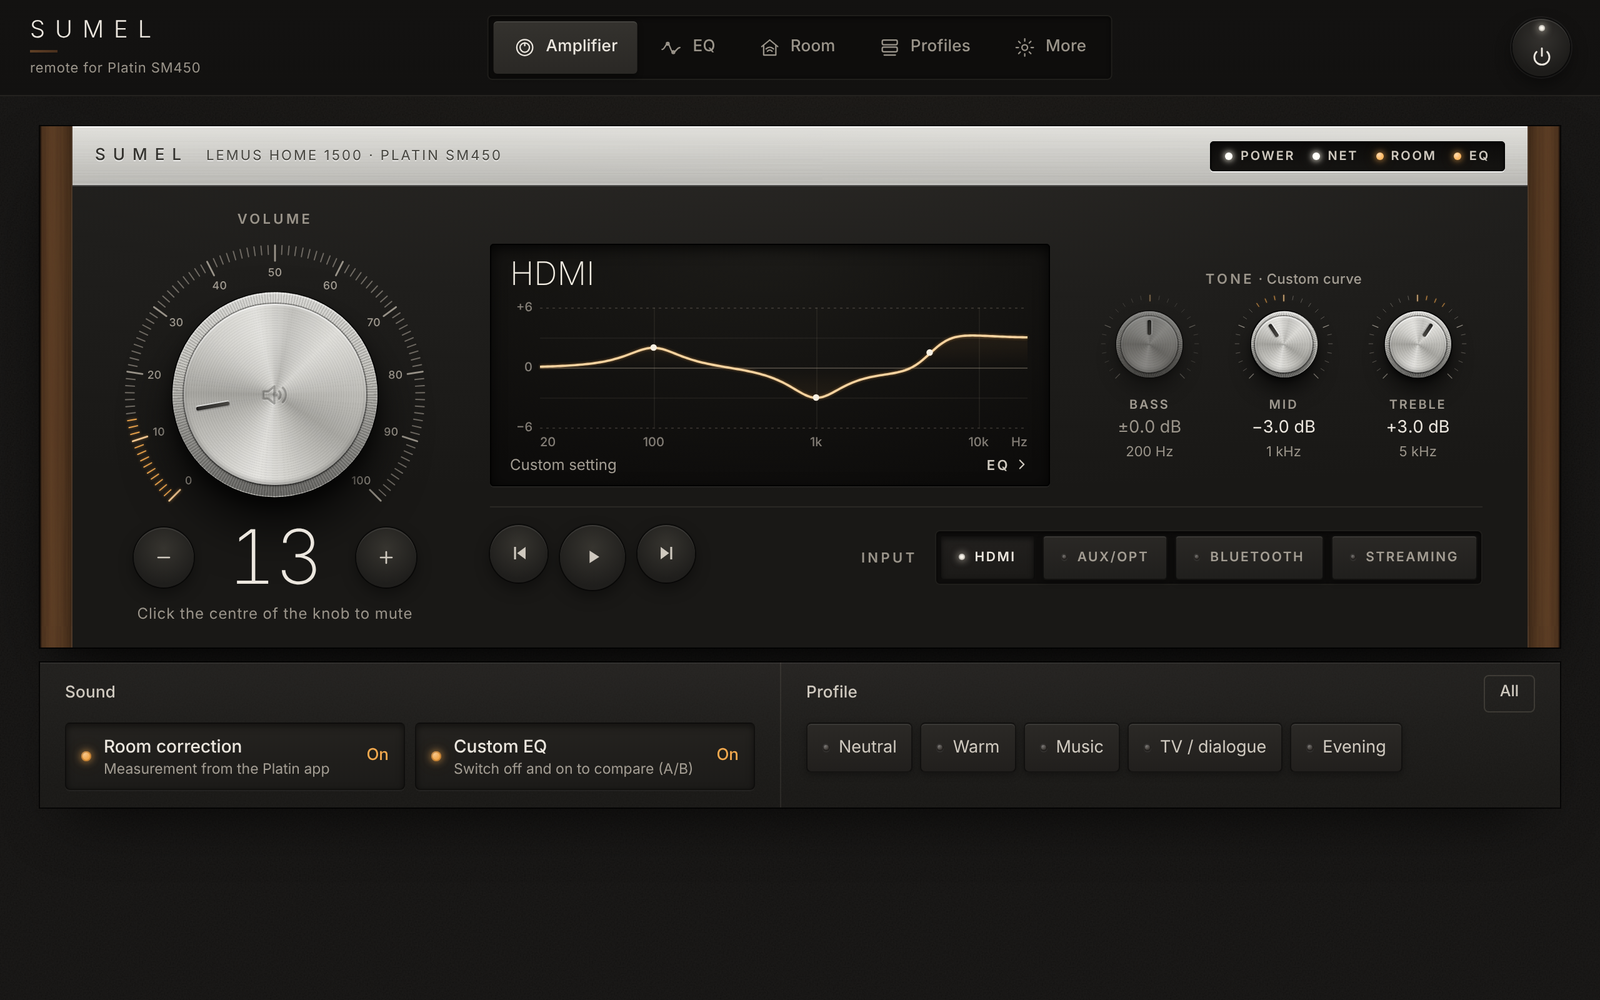
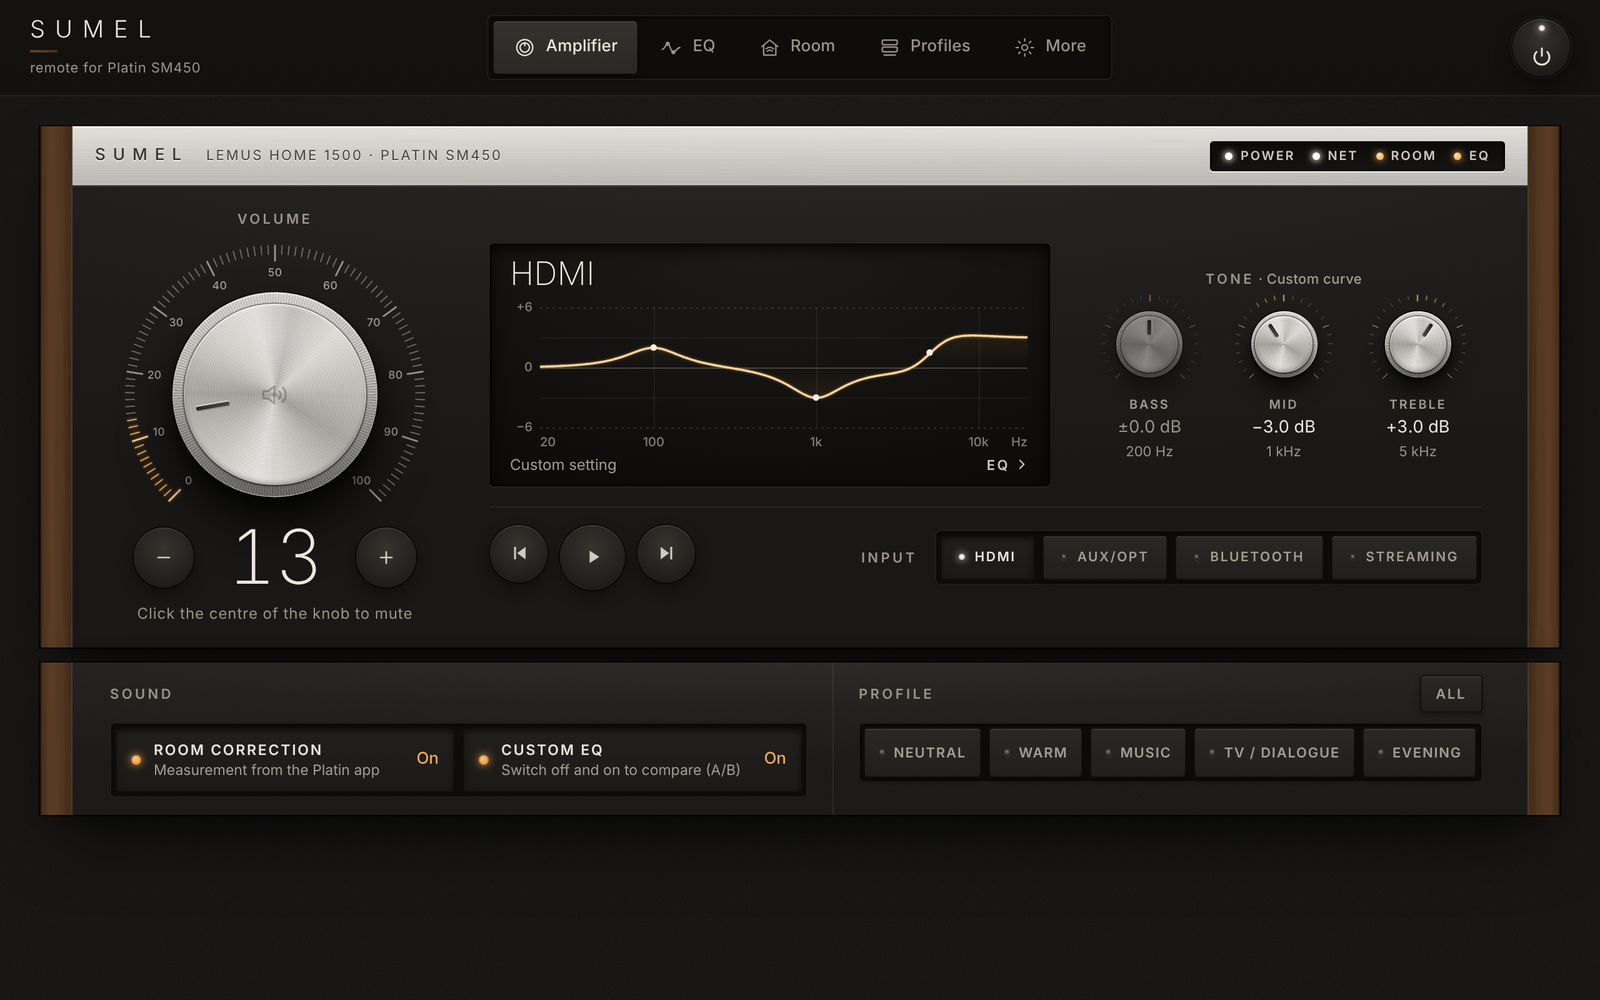
SUMEL 1.0.1
- Input selection waits for the speaker's own source list and always shows the input the
  speaker reports; the same input can be selected again; reconnects at once if the speaker
  does not answer
- Lower row (Sound/Profile) styled as part of the amplifier, aligned with the front panel
- Known SM450 issue (also in the Platin app): HDMI without sound after a network switch -
  fix with the remote (AUX/OPT and back to HDMI)

Claude-Session: https://claude.ai/code/session_015qg7weUaN48gBux5nf1eYy

Changed region(s): [[0.5, 0.682, 0.9062, 0.775], [0.0, 0.651, 0.4688, 0.837], [0.9375, 0.651, 1.0, 0.837]]

diff --git a/lemus_remote/static/index.html b/lemus_remote/static/index.html
@@ -822,6 +822,28 @@ html[data-front="alu"] .fp-body { padding-top:22px; }
   html[data-front="alu"] .fp-lamps { padding:5px 8px; gap:8px; }
   html[data-front="alu"] .fp-lamps span { gap:4px; letter-spacing:.04em; }
 }
+/* ---------------- Nedre rad (Lyd og Profil) som en del av forsterkeren: samme kabinett med valnøttsider, graverte
+   etiketter og knapper i en innfelt brønn som inngangsvelgeren. Sidene og innholdet flukter med frontplaten over. */
+.deck { padding:0 12px; background:radial-gradient(130% 70% at 50% 0%, #2a2825 0%, #1f1e1c 48%, #191816 100%);
+  box-shadow:0 0 0 1px rgba(0,0,0,.75), 0 30px 60px -20px rgba(0,0,0,.8), 0 10px 20px -10px rgba(0,0,0,.5); }
+.deck .deck-h { font-size:11px; font-weight:600; letter-spacing:.2em; text-transform:uppercase; color:var(--faint); }
+.deck .togs, .deck .chips { padding:3px; gap:6px; border-radius:var(--radius-s); background:var(--well);
+  border:1px solid var(--line); box-shadow:inset 0 1px 3px rgba(0,0,0,.6); }
+.deck .tog, .deck .chip { border-radius:var(--radius-xs); border:1px solid rgba(0,0,0,.55);
+  background:linear-gradient(180deg, #2a2825, #201f1d); box-shadow:inset 0 1px 0 rgba(255,255,255,.07), 0 2px 5px rgba(0,0,0,.35); }
+.deck .tog[aria-checked="true"], .deck .chip[aria-pressed="true"] { background:linear-gradient(180deg, #22201e, #1b1a18); box-shadow:inset 0 2px 5px rgba(0,0,0,.55); }
+.deck .tog .t b { font-size:11.5px; font-weight:600; letter-spacing:.12em; text-transform:uppercase; }
+.deck .chip { font-size:11.5px; font-weight:600; letter-spacing:.1em; text-transform:uppercase; color:var(--muted); }
+.deck .chip[aria-pressed="true"] { color:var(--fg); }
+.deck .deck-all { border-radius:var(--radius-xs); border:1px solid rgba(0,0,0,.55); background:linear-gradient(180deg, #2a2825, #201f1d);
+  box-shadow:inset 0 1px 0 rgba(255,255,255,.07), 0 2px 5px rgba(0,0,0,.35); font-size:11px; font-weight:600; letter-spacing:.12em; text-transform:uppercase; color:var(--muted); }
+html[data-front="alu"] .deck { padding:0; }
+@media (min-width: 1000px) {
+  .deck, html[data-front="alu"] .deck { padding:0 26px; }
+  .deck .deck-sec:first-of-type { padding-left:30px; }
+  .deck .deck-sec:last-of-type { padding-right:36px; }
+  .deck .chip { font-size:11px; min-height:40px; padding:0 11px; letter-spacing:.08em; gap:6px; }
+}
 </style>
 </head>
 <body>
@@ -907,6 +929,7 @@ html[data-front="alu"] .fp-body { padding-top:22px; }
   </div>
 
   <div class="deck" id="deck">
+    <span class="fp-cheek l"></span><span class="fp-cheek r"></span>
     <section class="deck-sec" aria-label="Lyd" data-i18n-aria="amp.sound">
       <h2 class="deck-h" data-i18n="amp.sound">Lyd</h2>
       <div class="togs">
@@ -1210,7 +1233,7 @@ html[data-front="alu"] .fp-body { padding-top:22px; }
       </div>
     </div>
   </details>
-  <p class="small muted" id="aboutLine" style="margin:22px 4px 8px;opacity:.75"><b>SUMEL</b> 1.0.0 · <span data-i18n="about.tag">fjernkontroll for Platin SM450</span><br><i data-i18n="about.why">Utviklet grunnet irritasjon på dårlige eller ikke-eksisterende apper. =)</i></p>
+  <p class="small muted" id="aboutLine" style="margin:22px 4px 8px;opacity:.75"><b>SUMEL</b> 1.0.1 · <span data-i18n="about.tag">fjernkontroll for Platin SM450</span><br><i data-i18n="about.why">Utviklet grunnet irritasjon på dårlige eller ikke-eksisterende apper. =)</i></p>
 </section>
 </main>
 <div id="toasts" aria-live="polite"></div>
@@ -1622,6 +1645,9 @@ const ERR_EN = [
   [/^høyttaleren bekreftet ikke slettingen$/, () => "the speaker didn’t confirm the deletion"],
   [/^høyttaleren bekreftet ikke at den slo seg av$/, () => "the speaker didn’t confirm that it switched off"],
   [/^høyttaleren bekreftet ikke (manuell EQ|romkorreksjon|preset|kildebytte|volum)$/, m => `the speaker didn’t confirm ${CONFIRM_EN[m[1]]}`],
+  [/^fikk ikke svar fra høyttaleren\. Kobler til på nytt – prøv igjen om noen sekunder\.$/, () => "no answer from the speaker. Reconnecting – try again in a few seconds."],
+  [/^høyttaleren bekreftet ikke kildebytte\. Høyttaleren melder ingen entydig aktiv kilde\.$/, () => "the speaker didn’t confirm the input change. It reports no clear active input."],
+  [/^høyttaleren bekreftet ikke kildebytte\. Høyttaleren melder (.+)\.$/, m => `the speaker didn’t confirm the input change. It reports ${m[1]}.`],
   [/^profilen bruker «(.+)», som ikke kan skrives ennå$/, m => `the profile uses “${typeNameFromNo(m[1])}”, which can’t be written yet`],
   [/^profilen har (\d+) bånd, men SM450 tar høyst (\d+)$/, m => `the profile has ${m[1]} bands, but the SM450 takes at most ${m[2]}`],
   [/^profilen og båndene som ikke kan skrives blir til sammen mer enn (\d+) bånd$/, m => `the profile plus the bands that can’t be written add up to more than ${m[1]} bands`],
@@ -2225,7 +2251,9 @@ $("#pwr").onclick = async () => {
 
 let srcBusy = null;
 async function pickSource(ix) {
-  if (!awake() || srcBusy != null || (S && S.source === ix)) return;
+  // Sendes også når kilden allerede vises som aktiv: visningen kan være utdatert, og et nytt valg av
+  // samme kilde skal da likevel nå høyttaleren (særlig HDMI).
+  if (!awake() || srcBusy != null) return;
   srcBusy = ix; renderSources(true);
   await api("/api/source", { ix });
   srcBusy = null; renderSources(true);

diff --git a/tests/test_source.py b/tests/test_source.py
@@ -1,0 +1,171 @@
+"""Kildebytte (HDMI m.fl.): riktig kommando, bekreftelse fra kildelisten (02 02) og at tilstanden
+viser kilden høyttaleren faktisk melder – ikke en utdatert eller antatt kilde.
+
+Bakgrunn (fysisk test, 1.0.0): bytte tilbake til HDMI fra SUMEL mislyktes, SUMEL viste
+«Høyttaleren bekreftet ikke kildebytte», og HDMI kunne stå som aktiv selv om høyttaleren
+brukte en annen kilde. Fjernkontrollen kunne bytte til HDMI.
+"""
+import asyncio
+import json
+import unittest
+
+from lemus_remote import protocol as p
+from lemus_remote.device import CommandError, Speaker
+
+from fake_sm450 import FakeSM450, ev
+
+HDMI, AUX, BT, STREAM = 1, 2, 3, 4
+
+
+class SourceFake(FakeSM450):
+    """FakeSM450 med valg for hvordan kildebytter meldes.
+
+    json_delay:   sekunder før kildelisten viser en ny kilde (HDMI-håndtrykk o.l.)
+    ignore_select: kilder som 02 03 ikke bytter til
+    sts_extra:    kilder som alltid har sts 1 i kildelisten (i tillegg til den aktive)
+    """
+
+    def __init__(self) -> None:
+        super().__init__()
+        self.json_delay = 0.0
+        self.ignore_select: set[int] = set()
+        self.sts_extra: set[int] = set()
+        self._shown = self.source       # kilden kildelisten viser nå
+
+    def _source_events(self) -> None:
+        doc = {"src": [{"ix": ix, "name": n, "sts": int(ix == self._shown or ix in self.sts_extra)}
+                       for ix, n in self.SOURCES]}
+        self._broadcast(ev(0x02, 0x02, json.dumps(doc, separators=(",", ":")).encode()))
+        self._broadcast(ev(0x02, 0x21, bytes([self.source, self.volume])))
+
+    async def _handle(self, f: bytes) -> None:
+        if self.silent:
+            return
+        key, data = (f[3], f[4]), f[5:]
+        if key == (0x02, 0x03):
+            if data[0] in self.ignore_select:
+                return
+            self.source = data[0]
+            if self.json_delay:
+                self._broadcast(ev(0x02, 0x21, bytes([self.source, self.volume])))  # bare 02 21 først
+                asyncio.get_running_loop().call_later(self.json_delay, self._show_now)
+                return
+            self._shown = self.source
+            self._source_events()
+            return
+        await super()._handle(f)
+
+    def _show_now(self) -> None:
+        self._shown = self.source
+        self._source_events()
+
+    def remote_select(self, ix: int) -> None:
+        """Fjernkontrollen bytter kilde: høyttaleren melder 02 02 + 02 21 til alle (busmon 9.11.2026)."""
+        self.source = self._shown = ix
+        self._source_events()
+
+
+class SourceFrames(unittest.TestCase):
+    def test_hdmi_select_frame_is_documented_form(self):
+        # 00 04 <05+ix> 02 03 <ix> (PROTOCOL.md / aiolibresync); HDMI har ix 1 i SM450-listen
+        self.assertEqual(p.select_source(HDMI).hex(" "), "00 04 06 02 03 01")
+        self.assertEqual(p.select_source(STREAM).hex(" "), "00 04 09 02 03 04")
+
+    def _decode(self, sts):
+        doc = {"src": [{"ix": ix, "name": n, "sts": sts.get(ix, 0)} for ix, n in SourceFake.SOURCES]}
+        return p.decode_control(ev(0x02, 0x02, json.dumps(doc).encode()))
+
+    def test_single_active_source(self):
+        self.assertEqual(self._decode({HDMI: 1})["source"], HDMI)
+        self.assertEqual(self._decode({BT: 1})["source"], BT)
+
+    def test_ambiguous_or_missing_active_source_is_unknown(self):
+        # før ble den første med sts 1 (HDMI) valgt – da kunne HDMI vises som aktiv feilaktig
+        self.assertIsNone(self._decode({HDMI: 1, BT: 1})["source"])
+        self.assertIsNone(self._decode({})["source"])
+
+    def test_source_code_from_02_21_does_not_set_source(self):
+        patch = p.decode_control(ev(0x02, 0x21, bytes([BT, 13])))
+        self.assertEqual(patch["source_code"], BT)
+        self.assertNotIn("source", patch)
+
+
+class SourceSwitching(unittest.IsolatedAsyncioTestCase):
+    async def asyncSetUp(self):
+        self.fake = SourceFake()
+        ctl, luci = await self.fake.start()
+        self.sp = Speaker("127.0.0.1", control_port=ctl, luci_port=luci)
+        self.sp.source_confirm = 3.0
+        self.sp.start()
+        ok = await self.sp._wait_for(lambda s: s["connected"] and s["source"] == HDMI and s["sources"]
+                                     and s.get("source_code") is not None, 5)
+        self.assertTrue(ok, self.sp.state)
+
+    async def asyncTearDown(self):
+        await self.sp.stop()
+        await self.fake.stop()
+        for f in self.fake.received:
+            self.assertNotIn((f[3], f[4]), {(0x08, 0x01), (0x08, 0x06), (0x08, 0x02), (0x02, 0x20)}, f.hex(" "))
+
+    def _selects(self):
+        return [f[5] for f in self.fake.received if (f[3], f[4]) == (0x02, 0x03)]
+
+    async def test_switch_away_and_back_to_hdmi(self):
+        await self.sp.select_source(BT)
+        self.assertEqual((self.fake.source, self.sp.state["source"]), (BT, BT))
+        await self.sp.select_source(HDMI)
+        self.assertEqual((self.fake.source, self.sp.state["source"]), (HDMI, HDMI))
+        self.assertEqual(self._selects(), [BT, HDMI])
+
+    async def test_hdmi_is_sent_even_when_state_wrongly_shows_hdmi(self):
+        # tilstanden er utdatert: viser HDMI, men høyttaleren står på Bluetooth
+        self.fake.source = self.fake._shown = BT
+        self.sp.state["source"] = HDMI
+        await self.sp.select_source(HDMI)
+        self.assertEqual(self._selects(), [HDMI])
+        self.assertEqual((self.fake.source, self.sp.state["source"]), (HDMI, HDMI))
+
+    async def test_slow_hdmi_confirmation_within_window(self):
+        await self.sp.select_source(BT)
+        self.fake.json_delay = 2.0   # kildelisten viser HDMI først etter 2 s (gammel grense var 3 s inkl. alt)
+        await self.sp.select_source(HDMI)
+        self.assertEqual(self.sp.state["source"], HDMI)
+
+    async def test_unconfirmed_switch_shows_actual_source_not_requested(self):
+        await self.sp.select_source(BT)
+        self.fake.ignore_select = {HDMI}   # høyttaleren bytter ikke
+        with self.assertRaises(CommandError) as cm:
+            await self.sp.select_source(HDMI)
+        self.assertIn("melder Bluetooth", str(cm.exception))
+        self.assertEqual(self.sp.state["source"], BT)   # ikke HDMI, som vi ba om
+
+    async def test_remote_change_is_followed(self):
+        # som i busmon-opptaket 9.11.2026: fjernkontrollen bytter, høyttaleren melder 02 02 + 02 21 straks
+        self.fake.remote_select(BT)
+        ok = await self.sp._wait_for(lambda s: s["source"] == BT, 2)
+        self.assertTrue(ok, self.sp.state)
+
+    async def test_no_answer_reconnects_and_does_not_claim_new_source(self):
+        await self.sp.select_source(BT)
+        self.fake.silent = True   # forbindelsen svarer ikke lenger
+        with self.assertRaises(CommandError) as cm:
+            await self.sp.select_source(HDMI)
+        self.assertIn("fikk ikke svar", str(cm.exception))
+        self.assertNotEqual(self.sp.state["source"], HDMI)
+        self.fake.silent = False
+        ok = await self.sp._wait_for(lambda s: not s["connected"], 3)
+        self.assertTrue(ok, "skulle koble fra for å koble til på nytt")
+        ok = await self.sp._wait_for(lambda s: s["connected"] and s["source"] == BT, 10)
+        self.assertTrue(ok, self.sp.state)
+        await self.sp.select_source(HDMI)
+        self.assertEqual((self.fake.source, self.sp.state["source"]), (HDMI, HDMI))
+
+    async def test_ambiguous_list_does_not_show_hdmi_as_active(self):
+        self.fake.sts_extra = {HDMI}   # HDMI har sts 1 i tillegg til den aktive
+        self.fake.remote_select(BT)
+        ok = await self.sp._wait_for(lambda s: s["source"] is None, 3)
+        self.assertTrue(ok, self.sp.state)
+
+
+if __name__ == "__main__":
+    unittest.main()

diff --git a/lemus_remote/device.py b/lemus_remote/device.py
@@ -42,6 +42,7 @@ MUTE_CONFIRM = 2.0  # sekunder vi venter på at boks 0x3F bekrefter demping fra 
 MUTE_RAMP_STEP = 5  # volum-reserve: skru opp igjen i steg på høyst så mye ...
 MUTE_RAMP_DELAY = 0.12  # ... med så mange sekunder mellom hvert steg
 FOLLOW_DELAY = 0.6  # vent litt etter en kommando fra en annen klient før vi leser på nytt
+SOURCE_CONFIRM = 6.0  # sekunder vi venter på at kildelisten (02 02) viser den valgte kilden (HDMI kan bruke flere sekunder)
 WAKE_REFRESH_DELAYS = (2.0, 4.0, 6.0)  # etter vekking: les EQ og romkurve etter 2, 6 og 12 s (lydprosessoren trenger litt tid)
 WAKE_SOURCE_WAIT = 3.0  # etter vekking: vent så lenge på en fersk kildemelding før vi går tilbake til forrige inngang
 # Etter vekking svarer ikke lydprosessoren på båndlesing (08 04) de første sekundene (ca. 8 s ifølge databladet).
@@ -149,6 +150,7 @@ class Speaker:
         # _cmd_lock, aldri mens _cmd_lock holdes. Ikke reentrant: offentlige metoder tar låsen og
         # kaller _-variantene, som ikke tar den.
         self._eq_lock = asyncio.Lock()
+        self.source_confirm = SOURCE_CONFIRM
         self._source_seen = 0  # antall kildemeldinger (02 02), så vi kan vente på en fersk etter vekking
         self._source_before_standby: int | None = None
         self.wake_source_wait = WAKE_SOURCE_WAIT
@@ -788,12 +790,33 @@ class Speaker:
                 raise CommandError("høyttaleren bekreftet ikke preset")
 
     async def select_source(self, ix: int) -> None:
+        """Velg inngang og vent til høyttalerens egen kildeliste (02 02) viser den.
+
+        Kommandoen sendes også når tilstanden allerede viser denne kilden, fordi tilstanden kan være
+        utdatert (da må et nytt valg av HDMI likevel nå frem). Bekreftes den ikke, leses kildelisten
+        én gang til, så tilstanden viser det høyttaleren faktisk melder, og ikke kilden vi ba om."""
         if ix not in {s["ix"] for s in self.state["sources"]}:
             raise CommandError(f"ukjent kilde {ix}")
         async with self._cmd_lock:
+            seen = self._source_seen
             await self._send_control(p.select_source(ix))
-            if not await self._wait_for(lambda s: s["source"] == ix, 3, resend=p.GET_SOURCES, every=1.0):
-                raise CommandError("høyttaleren bekreftet ikke kildebytte")
+            ok = await self._wait_for(lambda s: self._source_seen != seen and s["source"] == ix,
+                                      self.source_confirm, resend=p.GET_SOURCES, every=1.5)
+            if not ok:
+                seen = self._source_seen
+                await self._send_control(p.GET_SOURCES)
+                await self._wait_for(lambda s: self._source_seen != seen, 2)
+                if self._source_seen == seen:
+                    # Høyttaleren svarer på kildelisten innen ca. 0,1 s når forbindelsen er i orden
+                    # (busmon-opptak 9.11.2026). Ingen svar betyr en død forbindelse: koble til på nytt
+                    # med en gang i stedet for å vise en gammel kilde til vakthunden slår til (45 s).
+                    log.info("50006: ingen svar på kildelisten, kobler til på nytt")
+                    if self._ctl is not None:
+                        self._ctl.close()
+                    raise CommandError("fikk ikke svar fra høyttaleren. Kobler til på nytt – prøv igjen om noen sekunder.")
+                name = {x["ix"]: x["name"] for x in self.state["sources"]}.get(self.state["source"])
+                now = f" Høyttaleren melder {name}." if name else " Høyttaleren melder ingen entydig aktiv kilde."
+                raise CommandError("høyttaleren bekreftet ikke kildebytte." + now)
 
     async def set_power(self, on: bool) -> None:
         """Slå på/av. Mens det pågår, står ``power_busy`` ("on"/"off") i tilstanden, så alle

diff --git a/lemus_remote/protocol.py b/lemus_remote/protocol.py
@@ -299,7 +299,10 @@ def decode_control(frame: bytes) -> dict | None:
             for s in doc.get("src", [])
             if "ix" in s
         ]
-        current = next((int(s["ix"]) for s in doc.get("src", []) if s.get("sts") == 1), None)
+        # sts 1 = aktiv kilde. Står mer enn én (eller ingen) med sts 1, vet vi ikke hvilken som er i bruk:
+        # da er kilden ukjent (None), i stedet for at den første i listen (HDMI) vises som aktiv.
+        active = [int(s["ix"]) for s in doc.get("src", []) if "ix" in s and s.get("sts") == 1]
+        current = active[0] if len(active) == 1 else None
         return {"sources": sources, "source": current}
     if key == (0x02, 0x89):
         try:

diff --git a/tests/test_tray.py b/tests/test_tray.py
@@ -37,7 +37,7 @@ class Version(unittest.TestCase):
         self.assertIn("SUMEL", out.getvalue())
 
     def test_version_number(self):
-        self.assertEqual(__version__, "1.0.0")
+        self.assertEqual(__version__, "1.0.1")
         # «Om SUMEL» i appen viser samme versjon
         from pathlib import Path
         html = (Path(__file__).resolve().parents[1] / "lemus_remote" / "static" / "index.html").read_text(encoding="utf-8")

diff --git a/lemus_remote/__init__.py b/lemus_remote/__init__.py
@@ -1,3 +1,3 @@
 """SUMEL – uoffisiell lokal webfjernkontroll for Platin SM450 (Lemus HOME)."""
 
-__version__ = "1.0.0"
+__version__ = "1.0.1"

diff --git a/README.md b/README.md
@@ -71,6 +71,8 @@ On the Lemus HOME 1500. "Confirmed" means it was tried on the real speaker and t
 | Live status | Confirmed. Room correction and Custom EQ are not announced by the speaker, so SUMEL polls them every 10 s |
 | Phone (browser and home screen) | Layout and controls tested in a phone-sized browser only. Not yet tested on a real iPhone or Android phone |
 
+**Known issue (SM450 firmware):** after switching to HDMI over the network, the amplifier can report HDMI as active while no sound comes out. The Platin app does the same. Fix it with the RF remote: switch to AUX/OPT and back to HDMI.
+
 **Not included:** new room measurements (make them in the Platin app; SUMEL switches the correction and shows the curve), factory reset, firmware updates, crossovers, per-channel EQ and delay. The speaker presets 1–3 are left out too: on the SM450 they revert to the app EQ after a few seconds.
 
 ## Getting started
@@ -260,5 +262,7 @@ SUMEL er ikke laget av eller tilknyttet Lemus eller Platin. Den skriver til DSP-
 **Installasjon:** Last ned `SUMEL-Setup-<versjon>.exe` fra [siste release](https://github.com/erognmo-afk/SUMEL-platin-sm450-remote/releases/latest) (64-biters Windows, testet på Windows 11, krever ingen GitHub-konto) og kjør den. Programmet er ikke kodesignert: ved «Windows beskyttet PC-en din» trykker du **Mer info → Kjør likevel**. Blokkerer Smart App Control programmet, kan du kjøre fra kildekoden i stedet: installer Python 3.10 eller nyere og kjør `py -m lemus_remote --open` i SUMEL-mappen.
 
 **Første gang:** Sett opp høyttaleren med produsentens app eller Google Home først, og ha PC-en på samme nett (ikke gjestenettet). SUMEL leter selv. Finner den ikke høyttaleren etter ca. 20 sekunder, trykker du **Skriv IP-adresse**. Står høyttaleren i standby, leses EQ-en når den våkner, og EQ-endringer er sperret til da. På mobilen åpner du adressen fra menyen ved klokken eller QR-koden under **Mer**. Tilgangskoden skrives inn én gang per enhet (QR-koden logger inn av seg selv). Mobilbruk er så langt bare testet i en nettleser i mobilstørrelse, ikke på en ekte telefon.
+
+**Kjent feil i SM450:** etter bytte til HDMI over nettverket kan forsterkeren melde HDMI uten at det kommer lyd. Platin-appen gjør det samme. Bruk fjernkontrollen: bytt til AUX/OPT og tilbake til HDMI.
 
 **EQ-plassene:** SUMEL skriver bare til de tre EQ-plassene SM450 setter av til appen. Et fjerde bånd ga et smell i testen og overskrev trolig en del av produsentens tuning. Filtre på andre plasser vises som låst og røres aldri. Har noe havnet der, slår du høyttaleren helt av (strømbryter eller stikkontakt) i 10 sekunder. Det laster trolig fabrikkoppsettet inn igjen (ikke bekreftet). Andre modeller enn Lemus HOME 1500 er ikke testet: prøv volum og inngang før du bruker EQ.

diff --git a/CHANGELOG.md b/CHANGELOG.md
@@ -4,6 +4,19 @@ All notable changes to SUMEL, newest first. The format is based on [Keep a Chang
 
 Downloads are on the [releases page](https://github.com/erognmo-afk/SUMEL-platin-sm450-remote/releases).
 
+## [1.0.1] - 2026-11-09
+
+### Changed
+
+- **Input selection** waits for the speaker's own source list to confirm the new input (up to 6 s) and always shows the input the speaker reports, never the one that was requested. Selecting an input that is already shown as active is sent again, so a stale display can no longer block switching back to HDMI.
+- If the speaker does not answer at all, SUMEL reconnects straight away and says so, instead of showing an old input until the connection watchdog notices.
+- If the speaker's source list marks more than one input as active, the input is shown as unknown rather than as HDMI.
+- The lower row (Sound and Profile) now looks like part of the amplifier: walnut sides, engraved labels and buttons in a recessed well, aligned with the front panel.
+
+### Known issue
+
+- After switching to HDMI over the network, the SM450 can report HDMI as active while no sound comes out. This also happens with the Platin app, so it is the amplifier's firmware, not SUMEL. The RF remote fixes it: switch to AUX/OPT and back to HDMI with the remote.
+
 ## [1.0.0] - 2026-11-09
 
 ### Added
@@ -105,6 +118,7 @@ Development under the name Lemus Remote, before the public release. Not released
 - English and Norwegian, and a home-screen app on phones.
 - **0.9.0:** Curve EQ, the stored room curve, wider tone controls, and a Windows program with a tray icon and installer.
 
+[1.0.1]: https://github.com/erognmo-afk/SUMEL-platin-sm450-remote/releases/tag/v1.0.1
 [1.0.0]: https://github.com/erognmo-afk/SUMEL-platin-sm450-remote/releases/tag/v1.0.0
 [0.10.1]: https://github.com/erognmo-afk/SUMEL-platin-sm450-remote/releases/tag/v0.10.1
 [0.10.0]: https://github.com/erognmo-afk/SUMEL-platin-sm450-remote/releases/tag/v0.10.0
